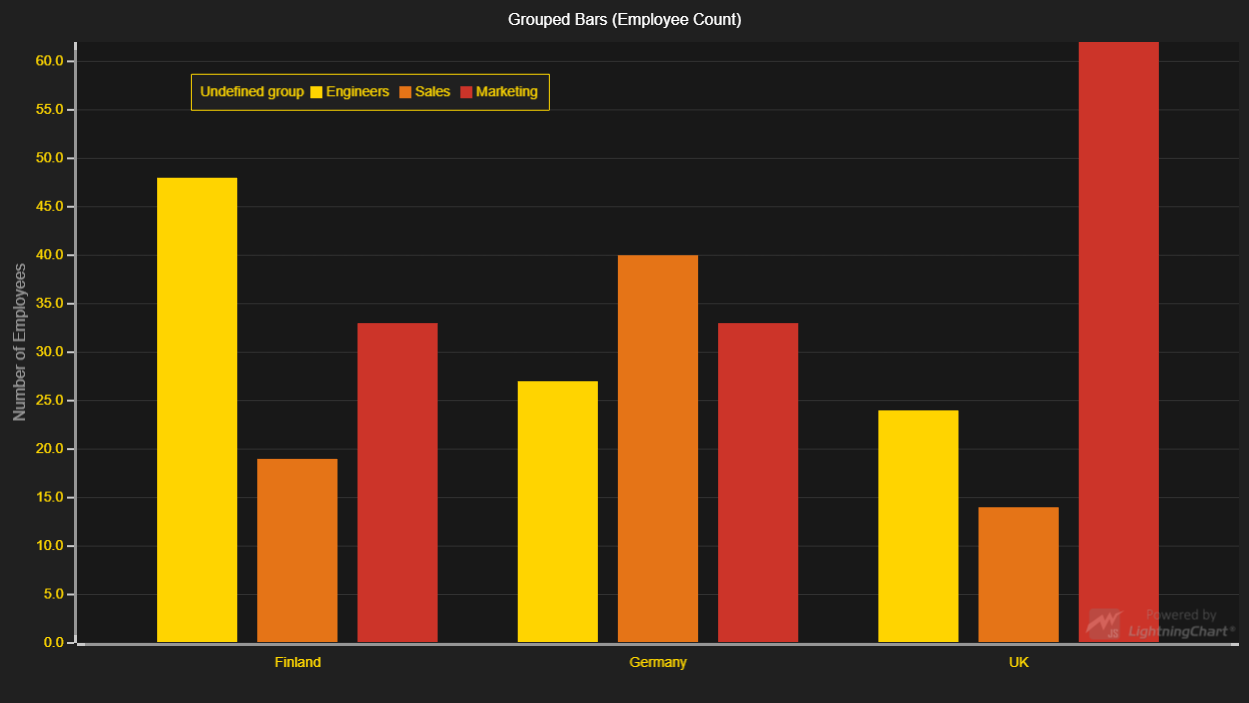
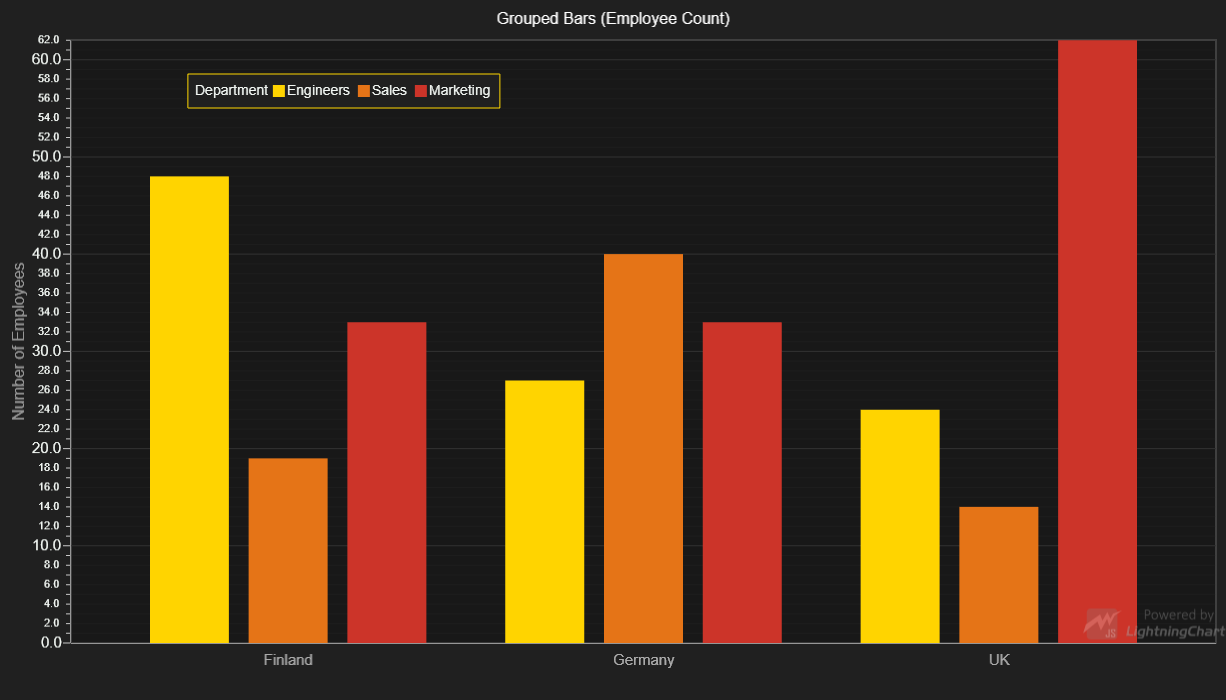
LCJS 2.0.0

diff --git a/src/index.js b/src/index.js
@@ -11,12 +11,13 @@ const {
     ColorRGBA,
     emptyLine,
     emptyFill,
-    emptyTick,
     AutoCursorModes,
     ColorPalettes,
     UIOrigins,
     LegendBoxBuilders,
-    AxisScrollStrategies
+    AxisScrollStrategies,
+    AxisTickStrategies,
+    Themes
 } = lcjs
 
 const lc = lightningChart()
@@ -45,7 +46,7 @@ let barChart
             .setMouseInteractions(false)
             .setScrollStrategy(undefined)
             // Disable default ticks.
-            .setTickStyle(emptyTick)
+            .setTickStrategy(AxisTickStrategies.Empty)
 
         // Y-axis of the series
         const axisY = chart.getDefaultAxisY()
@@ -136,6 +137,7 @@ let barChart
                                 .setFillStyle(emptyFill)
                                 .setStrokeStyle(emptyLine)
                             )
+                            .setTextFillStyle(new SolidFill({ color: ColorRGBA(170, 170, 170) }))
                         )
                 })
         }
@@ -158,7 +160,9 @@ let barChart
 }
 
 // Use bar chart interface to construct series
-const chart = barChart()
+const chart = barChart({
+    // theme: Themes.dark
+})
 
 // Add groups
 chart.addGroups(['Finland', 'Germany', 'UK'])

diff --git a/README.md b/README.md
@@ -54,19 +54,19 @@ The actual Grouped Bar Chart logic just serves to provide a starting point for u
 
 ## API Links
 
-* XY cartesian chart: [ChartXY]
-* Rectangle series: [RectangleSeries]
-* Solid FillStyle: [SolidFill]
-* Transparent FillStyle: [emptyFill]
-* Empty LineStyle: [emptyLine]
-* RGBA color factory: [ColorRGBA]
-* Color palettes: [ColorPalettes]
-* UI elements builders: [UIElementBuilders]
-* UI position origins: [UIOrigins]
-* Rectangle Series: [RectangleSeries]
-* cursor modes: [AutoCursorModes]
-* Axis: [Axis]
-* Scroll strategies: [AxisScrollStrategies]
+* [XY cartesian chart]
+* [Rectangle series]
+* [Solid FillStyle]
+* [Transparent FillStyle]
+* [Empty LineStyle]
+* [RGBA color factory]
+* [Color palettes]
+* [UI elements builders]
+* [UI position origins]
+* [Rectangle Series]
+* [cursor modes]
+* [Axis]
+* [Scroll strategies]
 
 
 ## Support
@@ -90,17 +90,17 @@ Direct developer email support can be purchased through a [Support Plan][4] or b
 © Arction Ltd 2009-2020. All rights reserved.
 
 
-[ChartXY]: https://www.arction.com/lightningchart-js-api-documentation/v1.3.0/classes/chartxy.html
-[RectangleSeries]: https://www.arction.com/lightningchart-js-api-documentation/v1.3.0/classes/rectangleseries.html
-[SolidFill]: https://www.arction.com/lightningchart-js-api-documentation/v1.3.0/classes/solidfill.html
-[emptyFill]: https://www.arction.com/lightningchart-js-api-documentation/v1.3.0/globals.html#emptyfill
-[emptyLine]: https://www.arction.com/lightningchart-js-api-documentation/v1.3.0/globals.html#emptyline
-[ColorRGBA]: https://www.arction.com/lightningchart-js-api-documentation/v1.3.0/globals.html#colorrgba
-[ColorPalettes]: https://www.arction.com/lightningchart-js-api-documentation/v1.3.0/globals.html#colorpalettes
-[UIElementBuilders]: https://www.arction.com/lightningchart-js-api-documentation/v1.3.0/globals.html#uielementbuilders
-[UIOrigins]: https://www.arction.com/lightningchart-js-api-documentation/v1.3.0/globals.html#uiorigins
-[RectangleSeries]: https://www.arction.com/lightningchart-js-api-documentation/v1.3.0/classes/rectangleseries.html
-[AutoCursorModes]: https://www.arction.com/lightningchart-js-api-documentation/v1.3.0/enums/autocursormodes.html
-[Axis]: https://www.arction.com/lightningchart-js-api-documentation/v1.3.0/classes/axis.html
-[AxisScrollStrategies]: https://www.arction.com/lightningchart-js-api-documentation/v1.3.0/globals.html#axisscrollstrategies
+[XY cartesian chart]: https://www.arction.com/lightningchart-js-api-documentation/v2.0.0/classes/chartxy.html
+[Rectangle series]: https://www.arction.com/lightningchart-js-api-documentation/v2.0.0/classes/rectangleseries.html
+[Solid FillStyle]: https://www.arction.com/lightningchart-js-api-documentation/v2.0.0/classes/solidfill.html
+[Transparent FillStyle]: https://www.arction.com/lightningchart-js-api-documentation/v2.0.0/globals.html#emptyfill
+[Empty LineStyle]: https://www.arction.com/lightningchart-js-api-documentation/v2.0.0/globals.html#emptyline
+[RGBA color factory]: https://www.arction.com/lightningchart-js-api-documentation/v2.0.0/globals.html#colorrgba
+[Color palettes]: https://www.arction.com/lightningchart-js-api-documentation/v2.0.0/globals.html#colorpalettes
+[UI elements builders]: https://www.arction.com/lightningchart-js-api-documentation/v2.0.0/globals.html#uielementbuilders
+[UI position origins]: https://www.arction.com/lightningchart-js-api-documentation/v2.0.0/globals.html#uiorigins
+[Rectangle Series]: https://www.arction.com/lightningchart-js-api-documentation/v2.0.0/classes/rectangleseries.html
+[cursor modes]: https://www.arction.com/lightningchart-js-api-documentation/v2.0.0/enums/autocursormodes.html
+[Axis]: https://www.arction.com/lightningchart-js-api-documentation/v2.0.0/classes/axis.html
+[Scroll strategies]: https://www.arction.com/lightningchart-js-api-documentation/v2.0.0/globals.html#axisscrollstrategies
 
